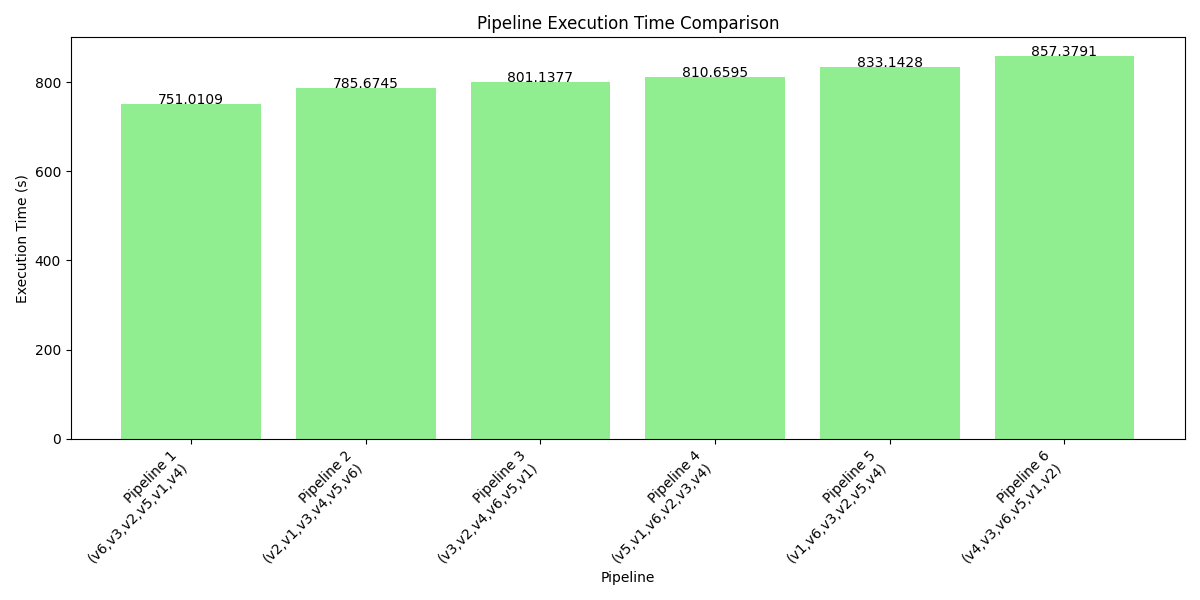
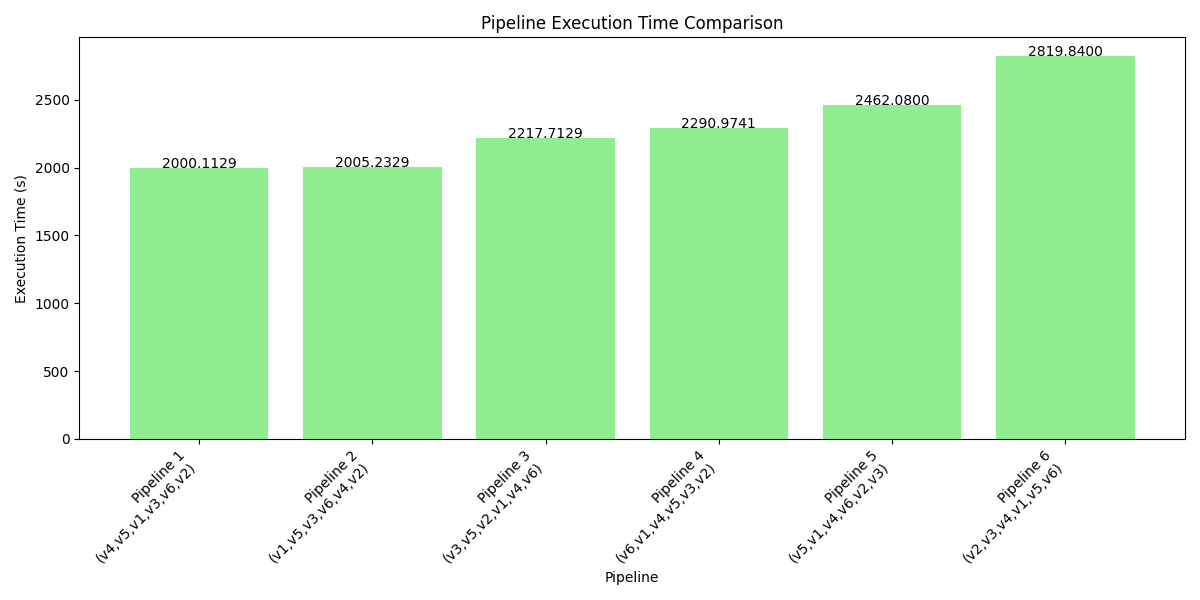
Changes to be committed:

diff --git a/flad/plot/bar.py b/flad/plot/bar.py
@@ -53,8 +53,8 @@ def process_csv_files():
 def plot_execution_times():
     """Plot execution times comparing Base vs Swift"""
     # Data for execution time comparison
-    base_results = {3: 1081.6197, 5: 2494.7078, 7: 910.5060, 9: np.nan}  # Use NaN for incomplete
-    swift_results = {3: 1064.1329, 5: 2339.8869, 7: 899.6769, 9: 901.1903}
+    base_results = {3: 1608.9600, 5: 2494.7078, 7: 3436.8156, 9: np.nan}  # Use NaN for incomplete
+    swift_results = {3: 1367.0400, 5: 2339.8869, 7: 2768.0314, 9: 2950.6813}
     
     fig, ax = plt.subplots(figsize=FIG_SIZE)
     
@@ -100,41 +100,48 @@ def plot_execution_times():
 
 def plot_optimization_times():
     """Plot optimization times comparing Phase1 vs Phase2"""
-    base_optimization = {3: 0.01, 5: 0.01, 7: 0.01, 9: np.nan}  # Use NaN for incomplete
-    swift_optimization = {3: 0.04, 5: 0.29, 7: 0.4, 9: 0.25}
+    base_optimization = {'3': 0.01, '4': 0.01,'5': 0.01, '7': 0.01}  # Use NaN for incomplete
+    swift_optimization = {'3': 0.04,'4': 0.04,'5': 0.29, '7': 0.4}
     
     fig, ax = plt.subplots(figsize=FIG_SIZE)
     
     # Extract data
     x_values = list(swift_optimization.keys())
-    x = np.array(x_values)
-    base_values = [base_optimization.get(k, np.nan) for k in x_values]
     
-    # Plot Swift/Phase2 data
-    swift_bars = ax.bar(x + 0.2, swift_optimization.values(), width=0.4, align='center', 
+    # Convert string keys to numeric positions for plotting
+    x_positions = np.arange(len(x_values))
+    base_values = [base_optimization.get(k, np.nan) for k in x_values]
+    swift_values = list(swift_optimization.values())
+    
+    # Plot Swift/Phase2 data - use numeric positions instead of string keys
+    swift_bars = ax.bar(x_positions + 0.2, swift_values, width=0.4, align='center', 
                         label='Phase2', color=BLUE_PALETTE[0], edgecolor='black', linewidth=1)
     
     # Plot completed Base/Phase1 data
     completed = ~np.isnan(base_values)
     if any(completed):
-        base_bars = ax.bar(x[completed] - 0.2, np.array(base_values)[completed], width=0.4, 
+        completed_positions = x_positions[completed]
+        completed_values = np.array(base_values)[completed]
+        base_bars = ax.bar(completed_positions - 0.2, completed_values, width=0.4, 
                          align='center', label='Phase1', color=BLUE_PALETTE[2], 
                          edgecolor='black', linewidth=1)
     
     # Plot special bar for incomplete Phase1 data
     incomplete = np.isnan(base_values)
     if any(incomplete):
-        ax.bar(x[incomplete] - 0.2, [0.01] * sum(incomplete), width=0.4, align='center',
+        incomplete_positions = x_positions[incomplete]
+        ax.bar(incomplete_positions - 0.2, [0.01] * sum(incomplete), width=0.4, align='center',
               hatch='////', color='lightgray', edgecolor='black', linewidth=1,
               label='Failed')
-        
-
     
     # Customize plot
     ax.set_xlabel('Problem Scale')
     ax.set_ylabel('Avg Optimization Time (s)')
-    #ax.set_title('Optimization Time Comparison by Problem Scale', fontsize=16, pad=20)
-    ax.set_xticks(x)
+    
+    # Set x-ticks at numeric positions but with string labels
+    ax.set_xticks(x_positions)
+    ax.set_xticklabels(x_values)
+    
     ax.legend(loc='best')
     ax.grid(axis='y', alpha=0.3)
     
@@ -443,7 +450,7 @@ def plot_traffic_light_training_progress():
     Samples data every 5 rounds to reduce visual clutter
     """
     # Read the CSV file
-    csv_path = os.path.join(os.path.dirname(os.getcwd()), '100roundVEmodel.csv')
+    csv_path = os.path.join(os.path.dirname(os.getcwd()), 'D:/EXP/pippyoldversion/flad/used_with_stats.csv')
     try:
         df = pd.read_csv(csv_path)
     except FileNotFoundError:
@@ -455,7 +462,7 @@ def plot_traffic_light_training_progress():
             return
     
     # Sample the data every 5 points
-    sampled_df = df[(df['round'] % 2 == 0) & (df['round'] < 61)]
+    sampled_df = df[(df['round'] % 2 == 0) & (df['round'] < 70)]
     
     # Also include the first round if not already included
     if not sampled_df.empty and sampled_df.iloc[0]['round'] != 1:
@@ -936,24 +943,76 @@ def plot_combined_driving_score_bar():
     
     plt.show()
 
+def execute_csv_std(file_path):
+    """
+    Compute average accuracy and corresponding standard deviation for each row in a CSV file.
+    Adds 'avg acc' and 'std' columns to the dataframe.
+    
+    Args:
+        file_path (str): Path to the CSV file containing accuracy data.
+        
+    Returns:
+        pd.DataFrame: DataFrame with added 'avg acc' and 'std' columns.
+    """
+    try:
+        # Read the CSV file
+        df = pd.read_csv(file_path)
+        print(f"Successfully loaded {file_path}")
+        
+        # Print columns to help debug
+        print(f"Columns in the CSV: {df.columns.tolist()}")
+        
+        # Identify accuracy columns (containing 'acc' in their name)
+        accuracy_columns = [col for col in df.columns if 'acc' in col.lower()]
+        
+        if not accuracy_columns:
+            print("No accuracy metrics found in the CSV file.")
+            return df
+        
+        print(f"Found accuracy columns: {accuracy_columns}")
+        
+        # Calculate row-wise mean (average) for accuracy columns
+        df['avg acc'] = df[accuracy_columns].mean(axis=1)
+        
+        # Calculate row-wise standard deviation for accuracy columns
+        df['std'] = df[accuracy_columns].std(axis=1)
+        
+        # Print summary statistics
+        print("\nSummary statistics:")
+        print(f"Overall average accuracy: {df['avg acc'].mean():.4f}")
+        print(f"Overall standard deviation: {df['std'].mean():.4f}")
+        
+        # Optionally save the modified DataFrame
+        output_path = file_path.replace('.csv', '_with_stats.csv')
+        df.to_csv(output_path, index=False)
+        print(f"Saved results to {output_path}")
+        
+        return df
+    
+    except Exception as e:
+        print(f"Error processing {file_path}: {str(e)}")
+        return None
+
 if __name__ == "__main__":
     setup_environment()
     # Process CSV files if needed
     # results = process_csv_files()
     
     # Generate all plots
-    plot_execution_times()
+    #plot_execution_times()
     plot_optimization_times()
-    plot_model_size_comparison()
-    plot_recovery_time()
-    plot_VE_throughout()
-    plot_VE_mem()
+    #plot_model_size_comparison()
+    #plot_recovery_time()
+    #plot_VE_throughout()
+    #plot_VE_mem()
     #plot_model_architecture()
-    plot_traffic_light_training_progress()
-    plot_stop_sign_training_progress()
-    plot_route_completion_score_bar()
-    plot_infraction_score_bar()
-    plot_combined_driving_score_bar()
+    #plot_traffic_light_training_progress()
+    #plot_stop_sign_training_progress()
+    #plot_route_completion_score_bar()
+    #plot_infraction_score_bar()
+    #plot_combined_driving_score_bar()
+    file_path = "flad/used.csv"
+    #execute_csv_std(file_path)
    
     print(f"{'Plots saved to '+OUTPUT_DIR if SAVE_PLOTS else 'Plots displayed but not saved'}")
 

diff --git a/flad/swift_example.py b/flad/swift_example.py
@@ -191,7 +191,7 @@ def plot_pipeline_comparison(pipelines):
     os.makedirs(output_dir, exist_ok=True)
     plt.savefig(os.path.join(output_dir, "pipeline_comparison.png"))
     
-    plt.show()
+    #plt.show()
 
 def compare_with_baseline(swift_optimizer, model, cluster):
     """Compare SWIFT optimizer with baseline optimizer."""
@@ -581,8 +581,8 @@ def xml_workflow(cluster_xml_path, model_xml_path, output_dir="output", train_ep
         
         # Plot stability scores
         stability_plot_path = os.path.join(output_dir, "stability_scores.png")
-        plot_stability_scores(swift_optimizer.stability_scores)
-        plt.savefig(stability_plot_path)
+        #plot_stability_scores(swift_optimizer.stability_scores)
+        #plt.savefig(stability_plot_path)
         
         results["stability_scores"] = swift_optimizer.stability_scores
         results["files"]["stability_scores_plot"] = stability_plot_path
@@ -612,7 +612,7 @@ def xml_workflow(cluster_xml_path, model_xml_path, output_dir="output", train_ep
         plt.ylabel('Total Reward')
         plt.grid(True, alpha=0.3)
         plt.savefig(rewards_plot_path)
-        plt.show()
+        #plt.show()
         
         results["training"] = {
             "episodes": train_episodes,
